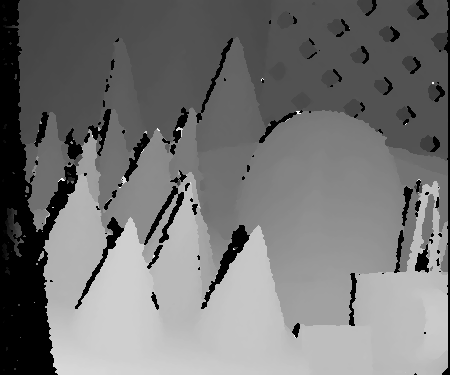
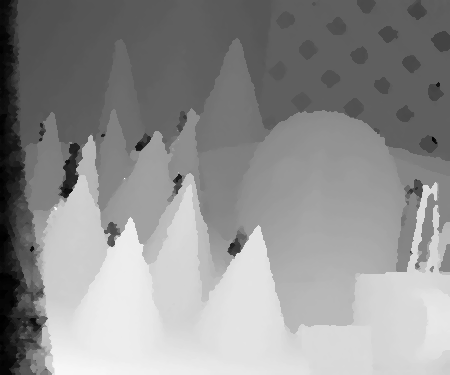
更新

diff --git a/semi_global_matching.cpp b/semi_global_matching.cpp
@@ -138,21 +138,24 @@ bool SemiGlobalMatching::Match(const std::uint8_t* left_image, const std::uint8_
     ComputeCost();
     auto end = std::chrono::steady_clock::now();
     auto cost_time = std::chrono::duration_cast<std::chrono::milliseconds>(end - start);
-    LOG(INFO) << "1.computing cost! timing : " << cost_time.count() / 1000.0 << "s";
+    LOG(INFO) << "1.computing cost!(计算代价: census变换、代价计算) timing : " 
+              << cost_time.count() / 1000.0 << "s";
 
     start = std::chrono::steady_clock::now();
     // 代价聚合
     CostAggregation();
     end = std::chrono::steady_clock::now();
     cost_time = std::chrono::duration_cast<std::chrono::milliseconds>(end - start);
-    LOG(INFO) << "2.cost aggregating! timing : " << cost_time.count() / 1000.0 << "s";
+    LOG(INFO) << "2.cost aggregating!(代价聚合: 4路聚合(左->右,右->左,上->下,下->上)) timing : " 
+              << cost_time.count() / 1000.0 << "s";
 
     start = std::chrono::steady_clock::now();
     // 视差计算
     ComputeDisparity();
     end = std::chrono::steady_clock::now();
     cost_time = std::chrono::duration_cast<std::chrono::milliseconds>(end - start);
-    LOG(INFO) << "3.computing disparities! timing : " << cost_time.count() / 1000.0 << "s";
+    LOG(INFO) << "3.computing disparities!(计算视差: WTA赢家通吃、唯一性约束、子像素拟合) timing : " 
+              << cost_time.count() / 1000.0 << "s";
 
     start = std::chrono::steady_clock::now();
     // 左右一致性检查
@@ -177,7 +180,8 @@ bool SemiGlobalMatching::Match(const std::uint8_t* left_image, const std::uint8_
     sgm_util::MedianFilter(left_disp_, left_disp_, height_, width_, 3);
     end = std::chrono::steady_clock::now();
     cost_time = std::chrono::duration_cast<std::chrono::milliseconds>(end - start);
-    LOG(INFO) << "4.postprocessing! timing : " << cost_time.count() / 1000.0 << "s";
+    LOG(INFO) << "4.postprocessing!(视差优化: 左右一致性检查(减少遮挡和错误的误匹配)、剔除小连通区域、视差填充、中值滤波) timing : " 
+              << cost_time.count() / 1000.0 << "s";
 
     // 输出视差图
     memcpy(left_disp, left_disp_, height_ * width_ * sizeof(float));

diff --git a/main.cpp b/main.cpp
@@ -105,9 +105,8 @@ int main(int argc, char* argv[]) {
     // 惩罚项P1、P2
     sgm_option.p1 = 10;
     sgm_option.p2_init = 150;
-    // 视差图填充
-    // 视差图填充的结果并不可靠，若工程，不建议填充，若科研，则可填充
-    sgm_option.is_fill_holes = false;
+    // 视差图填充 填充的值不准确(用领域像素填充了那些误匹配的像素值，保证了完整性) 工程没必要填充 科研可填充
+    sgm_option.is_fill_holes = true;
 
     LOG(INFO) << "w = " << width << ", h = " << height << ", " << "d = [" 
               << sgm_option.min_disparity << ", " << sgm_option.max_disparity << "]\n";
